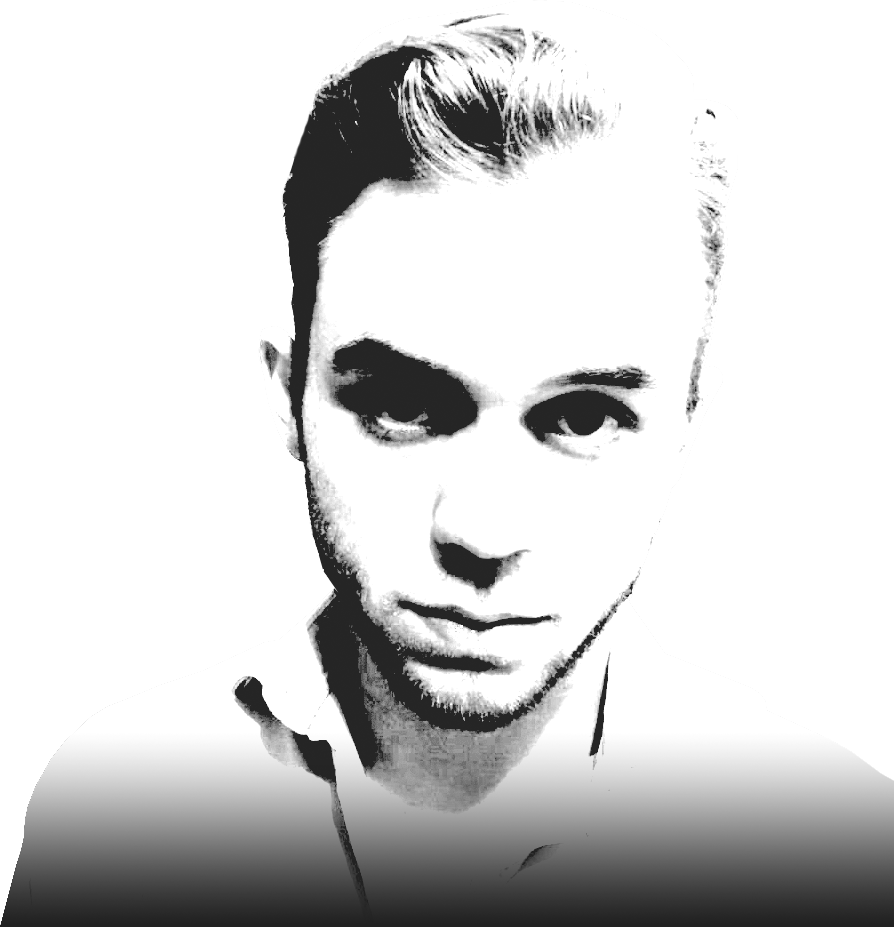
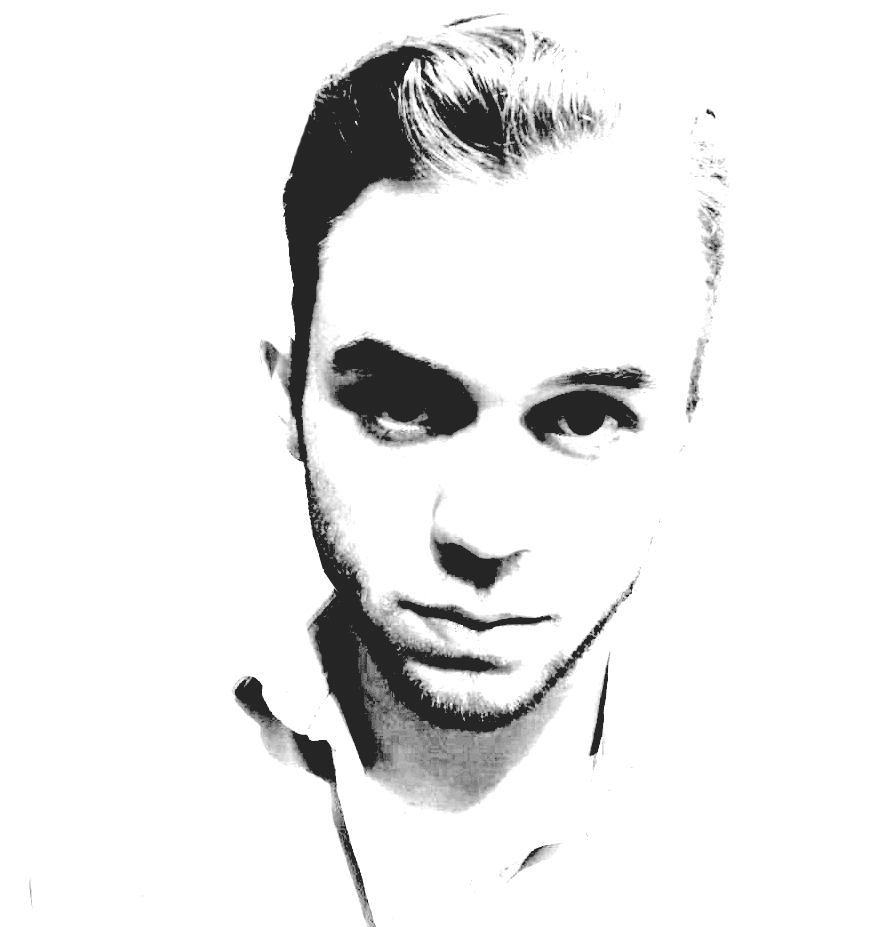
Added CNAME

Changed region(s): [[0.0, 0.8155, 1.0, 1.0]]

diff --git a/css/style.css b/css/style.css
@@ -28,21 +28,6 @@ a:hover {
   text-align: right;
   background: #fafafa;
   overflow: hidden;
-  /* Old browsers */
-  background: -moz-linear-gradient(top, #fafafa 90%, #212121 100%);
-  /* FF3.6+ */
-  background: -webkit-gradient(linear, left top, left bottom, color-stop(90%, #fafafa), color-stop(100%, #212121));
-  /* Chrome,Safari4+ */
-  background: -webkit-linear-gradient(top, #fafafa 90%, #212121 100%);
-  /* Chrome10+,Safari5.1+ */
-  background: -o-linear-gradient(top, #fafafa 90%, #212121 100%);
-  /* Opera 11.10+ */
-  background: -ms-linear-gradient(top, #fafafa 90%, #212121 100%);
-  /* IE10+ */
-  background: linear-gradient(to bottom, #fafafa 90%, #212121 100%);
-  /* W3C */
-  filter: progid: DXImageTransform.Microsoft.gradient(startColorstr='#fafafa', endColorstr='#212121', GradientType=0);
-  /* IE6-9 */
 }
 #background_img img {
   position: relative;
